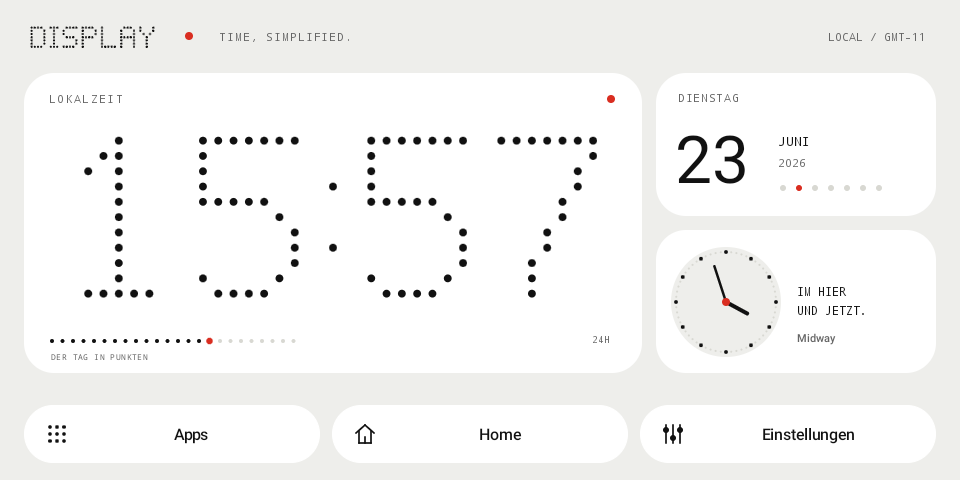
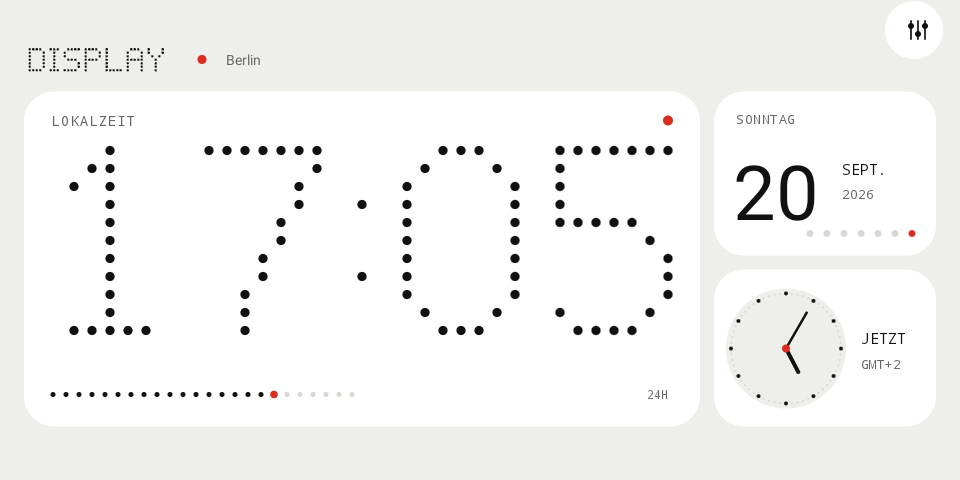
docs: document the 0.1.3 smart display release

diff --git a/README.md b/README.md
@@ -1,12 +1,16 @@
 # Display
 
-Display is a tiny, Nothing-inspired clock and Android launcher built specifically for the Echo Show 5 (`checkers`) running LineageOS 18.1.
+Display is a small, glanceable clock and Android launcher built specifically for the Echo Show 5 (`checkers`) running LineageOS 18.1. The current release is [v0.1.3](https://github.com/marius4lui/display/releases/tag/v0.1.3).
 
 It replaces a conventional home screen with a readable dot-matrix clock, an ambient-light-aware display, weather, Home Assistant controls, and a fast app drawer. Display does not contain Nothing branding or proprietary Nothing assets.
 
 ![Display on Echo Show 5](docs/screenshots/clock.png)
 
-See the [design system](docs/DESIGN.md) and [0.1.3 verification notes](docs/QA-0.1.3.md).
+| Four-column app drawer | Compact, touch-sized settings |
+| --- | --- |
+| ![App drawer on Echo Show 5](docs/screenshots/apps.png) | ![Settings on Echo Show 5](docs/screenshots/settings.png) |
+
+See the [design system](docs/DESIGN.md), [installation guide](docs/INSTALL.md), and [0.1.3 verification notes](docs/QA-0.1.3.md).
 
 ## Target
 
@@ -32,16 +36,50 @@ Other Android 11+ devices may work, but are not currently supported.
 - Two-column setup with scrollable content and fixed navigation for the 960 × 480 touchscreen
 - Categorized settings with immediately saved controls
 
+## Navigation
+
+The clock is the center of a three-page spatial layout:
+
+| From | Gesture | Result |
+| --- | --- | --- |
+| Clock | Swipe right | Apps |
+| Apps | Swipe left | Clock |
+| Clock | Swipe left | Home Assistant |
+| Home Assistant | Swipe right | Clock |
+
+An outward swipe at either edge stays on the current page, and vertical scrolling in the app drawer never changes pages. Use the gear for Settings; Android Back and the **Clock** button return to the clock.
+
+The clock, Apps, and Home Assistant are immersive smart-display surfaces. Android system bars remain available through an edge swipe. Setup and Settings remain safely inset when fullscreen mode is disabled.
+
+## Install
+
+Download the signed APK and checksum from the [latest GitHub release](https://github.com/marius4lui/display/releases/latest), verify the SHA-256 file, and install it as an in-place update:
+
+```powershell
+adb install -r .\display-0.1.3-armv7.apk
+adb shell am start -n com.marius4lui.display/.MainActivity
+```
+
+`-r` preserves the existing configuration when the installed app uses the same release certificate. See the [full installation guide](docs/INSTALL.md) before selecting Display as the Home app.
+
 ## Build
 
 Requirements: JDK 17 or newer and Android SDK 36.
 
 ```powershell
-.\gradlew.bat testDebugUnitTest assembleDebug
+.\gradlew.bat lintDebug testDebugUnitTest assembleDebug
 adb install -r .\app\build\outputs\apk\debug\app-debug.apk
+adb shell am start -n com.marius4lui.display.debug/com.marius4lui.display.MainActivity
 ```
 
-See [docs/INSTALL.md](docs/INSTALL.md), [docs/HOME_ASSISTANT.md](docs/HOME_ASSISTANT.md), and [docs/ADB_RECOVERY.md](docs/ADB_RECOVERY.md).
+Debug builds use the separate package `com.marius4lui.display.debug`, so they can be tested beside the signed launcher without replacing its data or Home-role selection.
+
+Additional documentation:
+
+- [Home Assistant setup and network policy](docs/HOME_ASSISTANT.md)
+- [Launcher recovery through ADB](docs/ADB_RECOVERY.md)
+- [Release process](docs/RELEASE.md)
+- [Performance targets](docs/PERFORMANCE.md)
 
 ## Privacy
 

diff --git a/docs/INSTALL.md b/docs/INSTALL.md
@@ -14,10 +14,18 @@ Expected values include `checkers`, LineageOS `18.1`, and `960x480`.
 
 ## Install through ADB
 
-Download the APK and matching `.sha256` file from GitHub Releases, verify the checksum, then run:
+Download the APK and matching `.sha256` file from the [latest GitHub release](https://github.com/marius4lui/display/releases/latest). Verify that the calculated SHA-256 matches the first value in the checksum file:
 
 ```powershell
-adb install -r display-0.1.0-armv7.apk
+$expected = (Get-Content .\display-0.1.3-armv7.apk.sha256).Split(' ')[0]
+$actual = (Get-FileHash .\display-0.1.3-armv7.apk -Algorithm SHA256).Hash
+$actual.ToLowerInvariant() -eq $expected.ToLowerInvariant()
+```
+
+Install and open the verified APK:
+
+```powershell
+adb install -r .\display-0.1.3-armv7.apk
 adb shell am start -n com.marius4lui.display/.MainActivity
 ```
 
@@ -25,4 +33,14 @@ Complete the on-device setup. At the last step, Android asks for the Home app. S
 
 ## Update
 
-Use Settings > Check GitHub for updates or install a newer APK with `adb install -r`. Updates must use the same signing key.
+Use **Settings → System → Check for updates** or install a newer APK with `adb install -r`. Updates must use the same signing key; never uninstall the release merely to work around a signature error, because uninstalling also removes its local configuration and encrypted token.
+
+## Debug builds
+
+Local debug builds use the separate package `com.marius4lui.display.debug`. They can be installed beside the release without changing the production launcher or its data:
+
+```powershell
+.\gradlew.bat lintDebug testDebugUnitTest assembleDebug
+adb install -r .\app\build\outputs\apk\debug\app-debug.apk
+adb shell am start -n com.marius4lui.display.debug/com.marius4lui.display.MainActivity
+```

diff --git a/docs/QA-0.1.3.md b/docs/QA-0.1.3.md
@@ -4,7 +4,9 @@ Local verification on 2026-09-20, Echo Show 5 (`checkers`), LineageOS 18.1 / And
 
 ## Automated checks
 
-- `lintDebug`, `testDebugUnitTest`, and `assembleDebug` passed.
+- `lintDebug`, `testDebugUnitTest`, and `assembleDebug` passed locally and in GitHub CI.
+- `lintRelease`, `testReleaseUnitTest`, R8 minification, and `assembleRelease` passed locally and in the signing workflow.
+- Android Lint reported 0 errors and 41 warnings.
 - Direction tests cover clock-to-Apps, clock-to-Home, both reverse gestures, and non-wrapping outer edges.
 - The debug variant uses `com.marius4lui.display.debug`, allowing side-by-side device validation without replacing the signed launcher or its data.
 
@@ -20,4 +22,11 @@ Local verification on 2026-09-20, Echo Show 5 (`checkers`), LineageOS 18.1 / And
 
 ## Release gate
 
-The signed release build, in-place installation, signature preservation, and production-package smoke test must pass before publication is considered complete.
+The release gate passed:
+
+- GitHub published [v0.1.3](https://github.com/marius4lui/display/releases/tag/v0.1.3) from commit `790d3c6`.
[2 lines of base64/hex data omitted]
+- `adb install -r` upgraded the production package to version code 103 without changing its original install time.
+- The complete directional swipe sequence, Settings gear, Android Back, and final clock state passed again against `com.marius4lui.display` after installation.
+- The temporary side-by-side debug package was removed after the production smoke test.

diff --git a/docs/RELEASE.md b/docs/RELEASE.md
@@ -2,9 +2,10 @@
 
 1. Update `versionName`, monotonic `versionCode`, and `CHANGELOG.md`.
 2. Run unit tests, lint, and an Echo Show 5 smoke test.
-3. Create a signed tag such as `v0.1.0`.
+3. Create an annotated release tag such as `v0.1.3`.
 4. Push the tag. GitHub Actions builds and signs the release APK.
 5. Verify the published APK and SHA-256 file before installing it on the reference device.
+6. Confirm the APK certificate matches the installed release, install with `adb install -r`, and repeat the production-package navigation smoke test.
 
 Required GitHub Actions secrets:
 

diff --git a/docs/PERFORMANCE.md b/docs/PERFORMANCE.md
@@ -10,3 +10,5 @@ Acceptance targets for Echo Show 5 `checkers` (not claims of completed measureme
 - no ANR, crash, or continuously growing memory during a 24-hour soak.
 
 The UI uses Android Views and Canvas rather than Compose, Flutter, or WebView. The launcher requests icons on demand through Android's package APIs and does not persist icon bitmaps.
+
+The signed v0.1.3 APK is 573,480 bytes, comfortably below the 10 MB artifact target. Startup time, steady PSS, averaged idle CPU, and the 24-hour soak remain performance targets rather than completed measurements.
